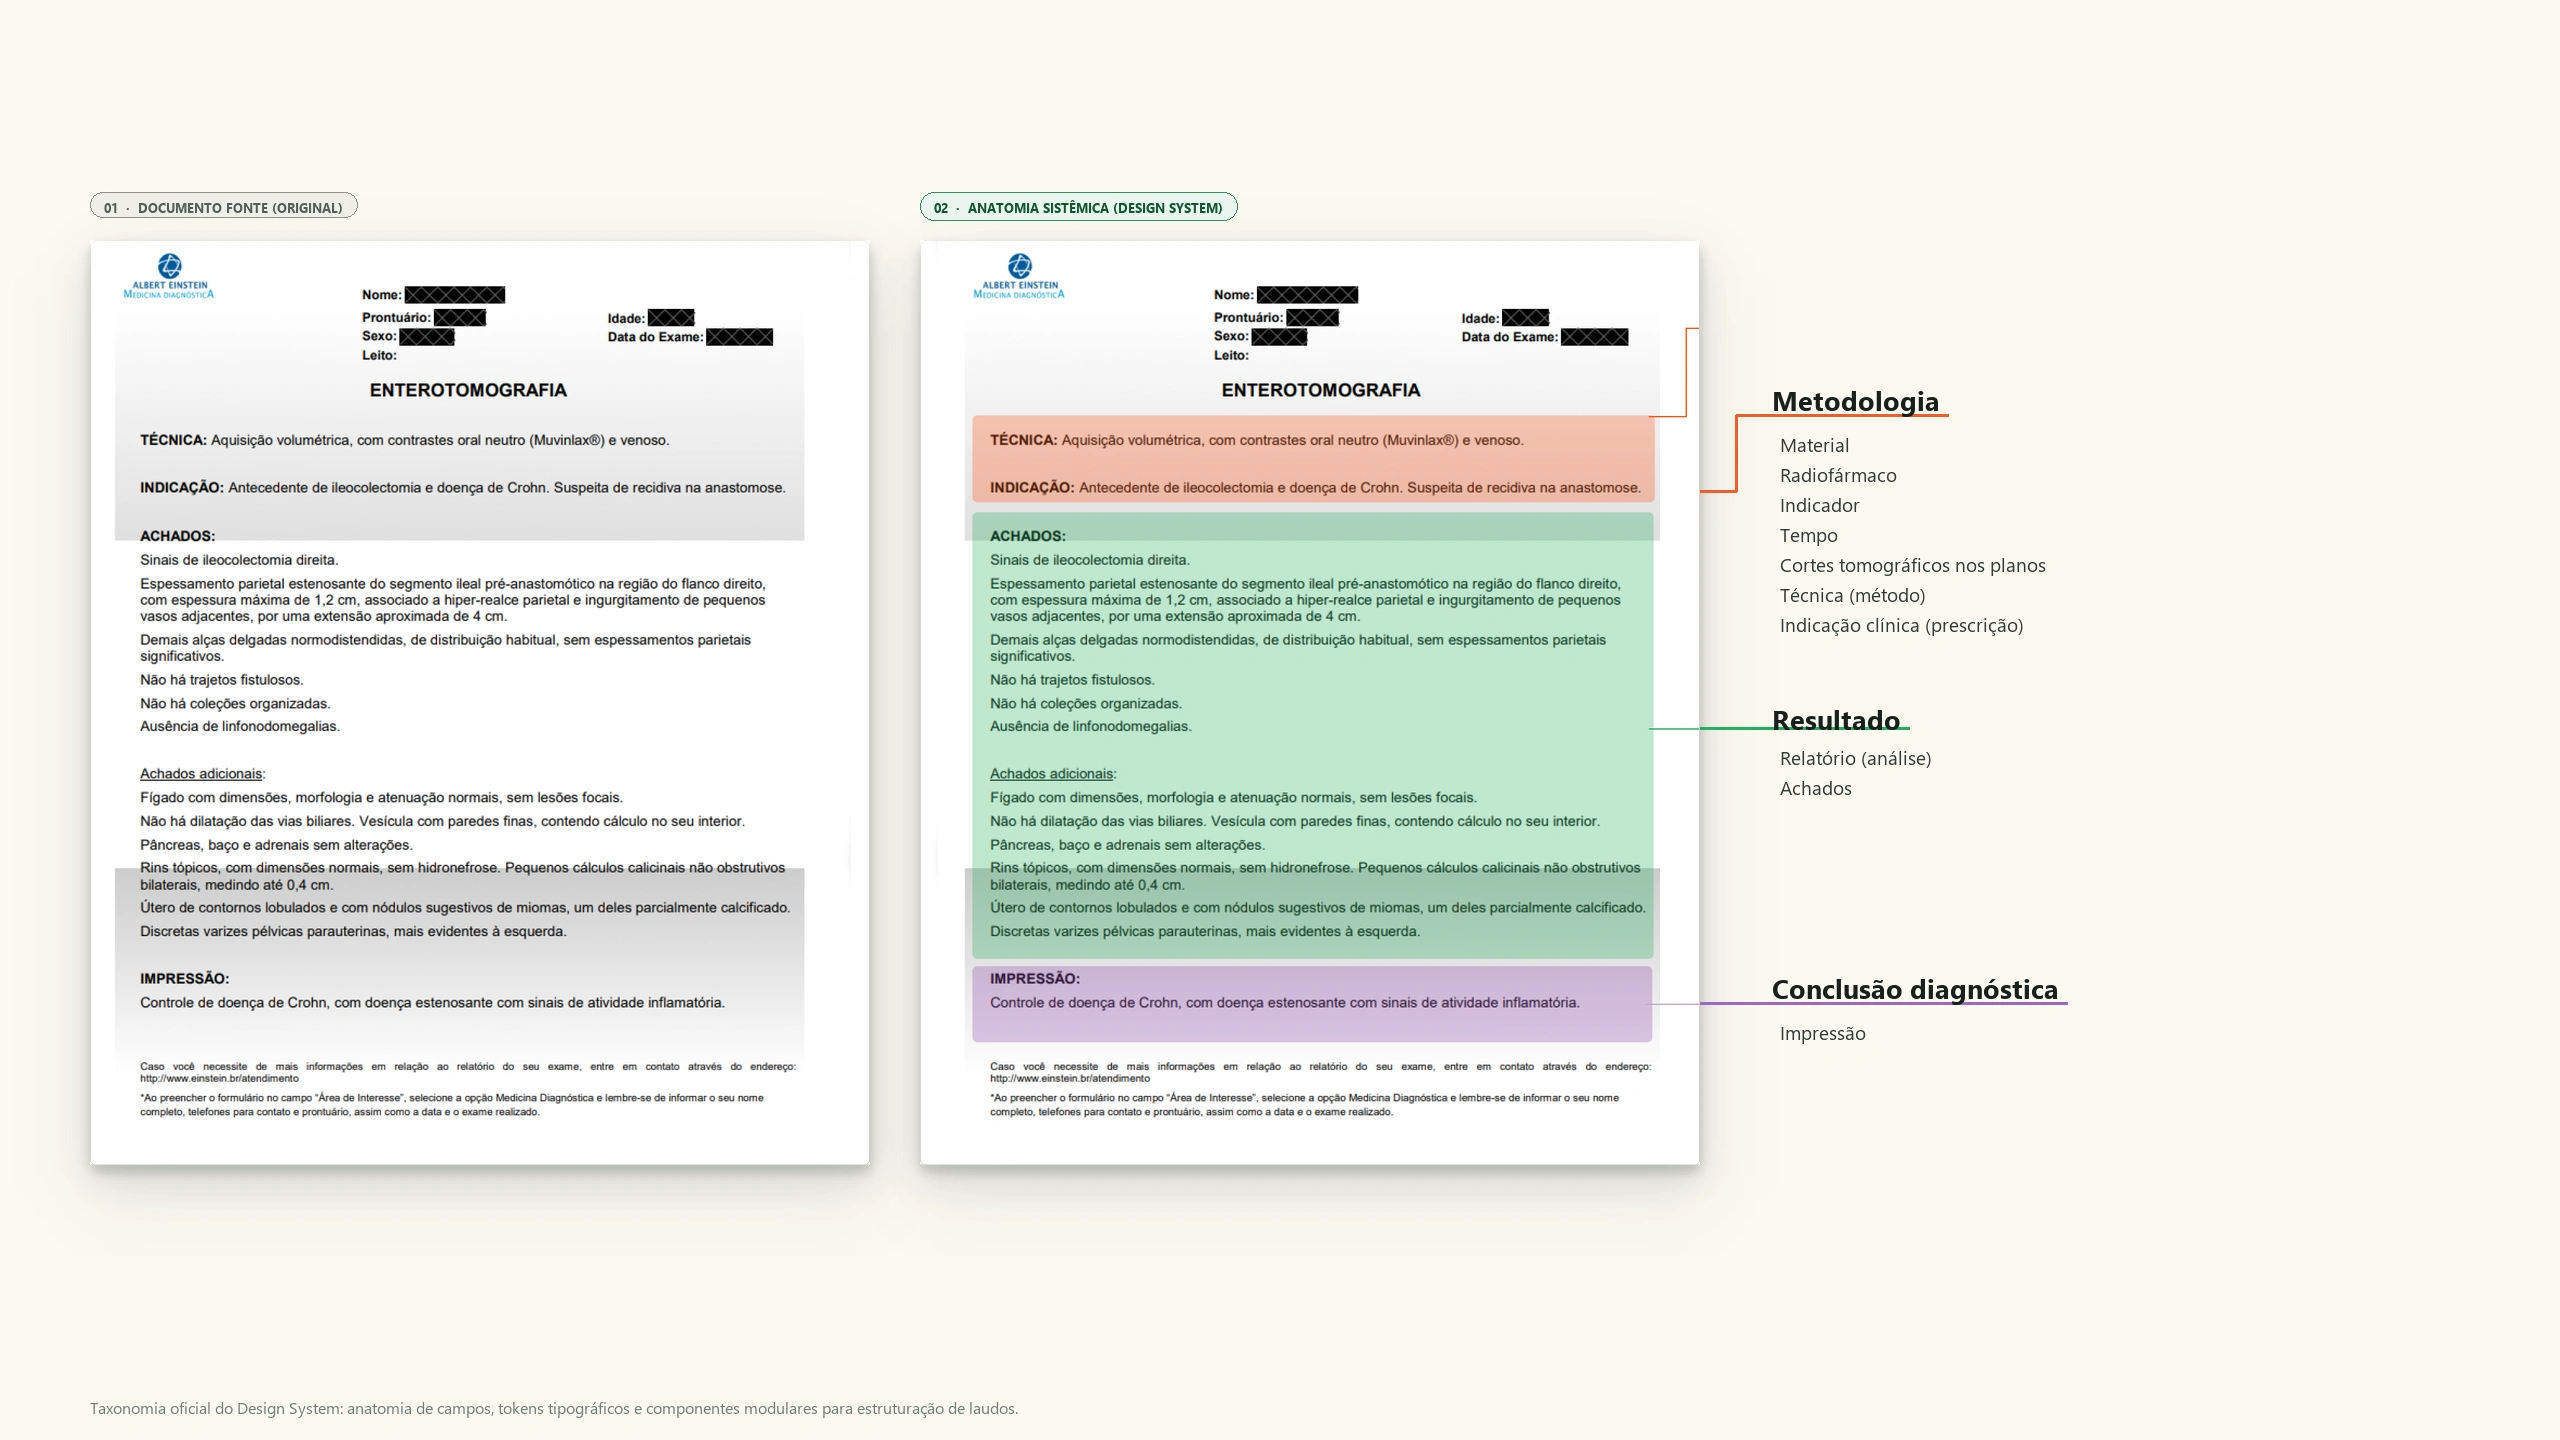
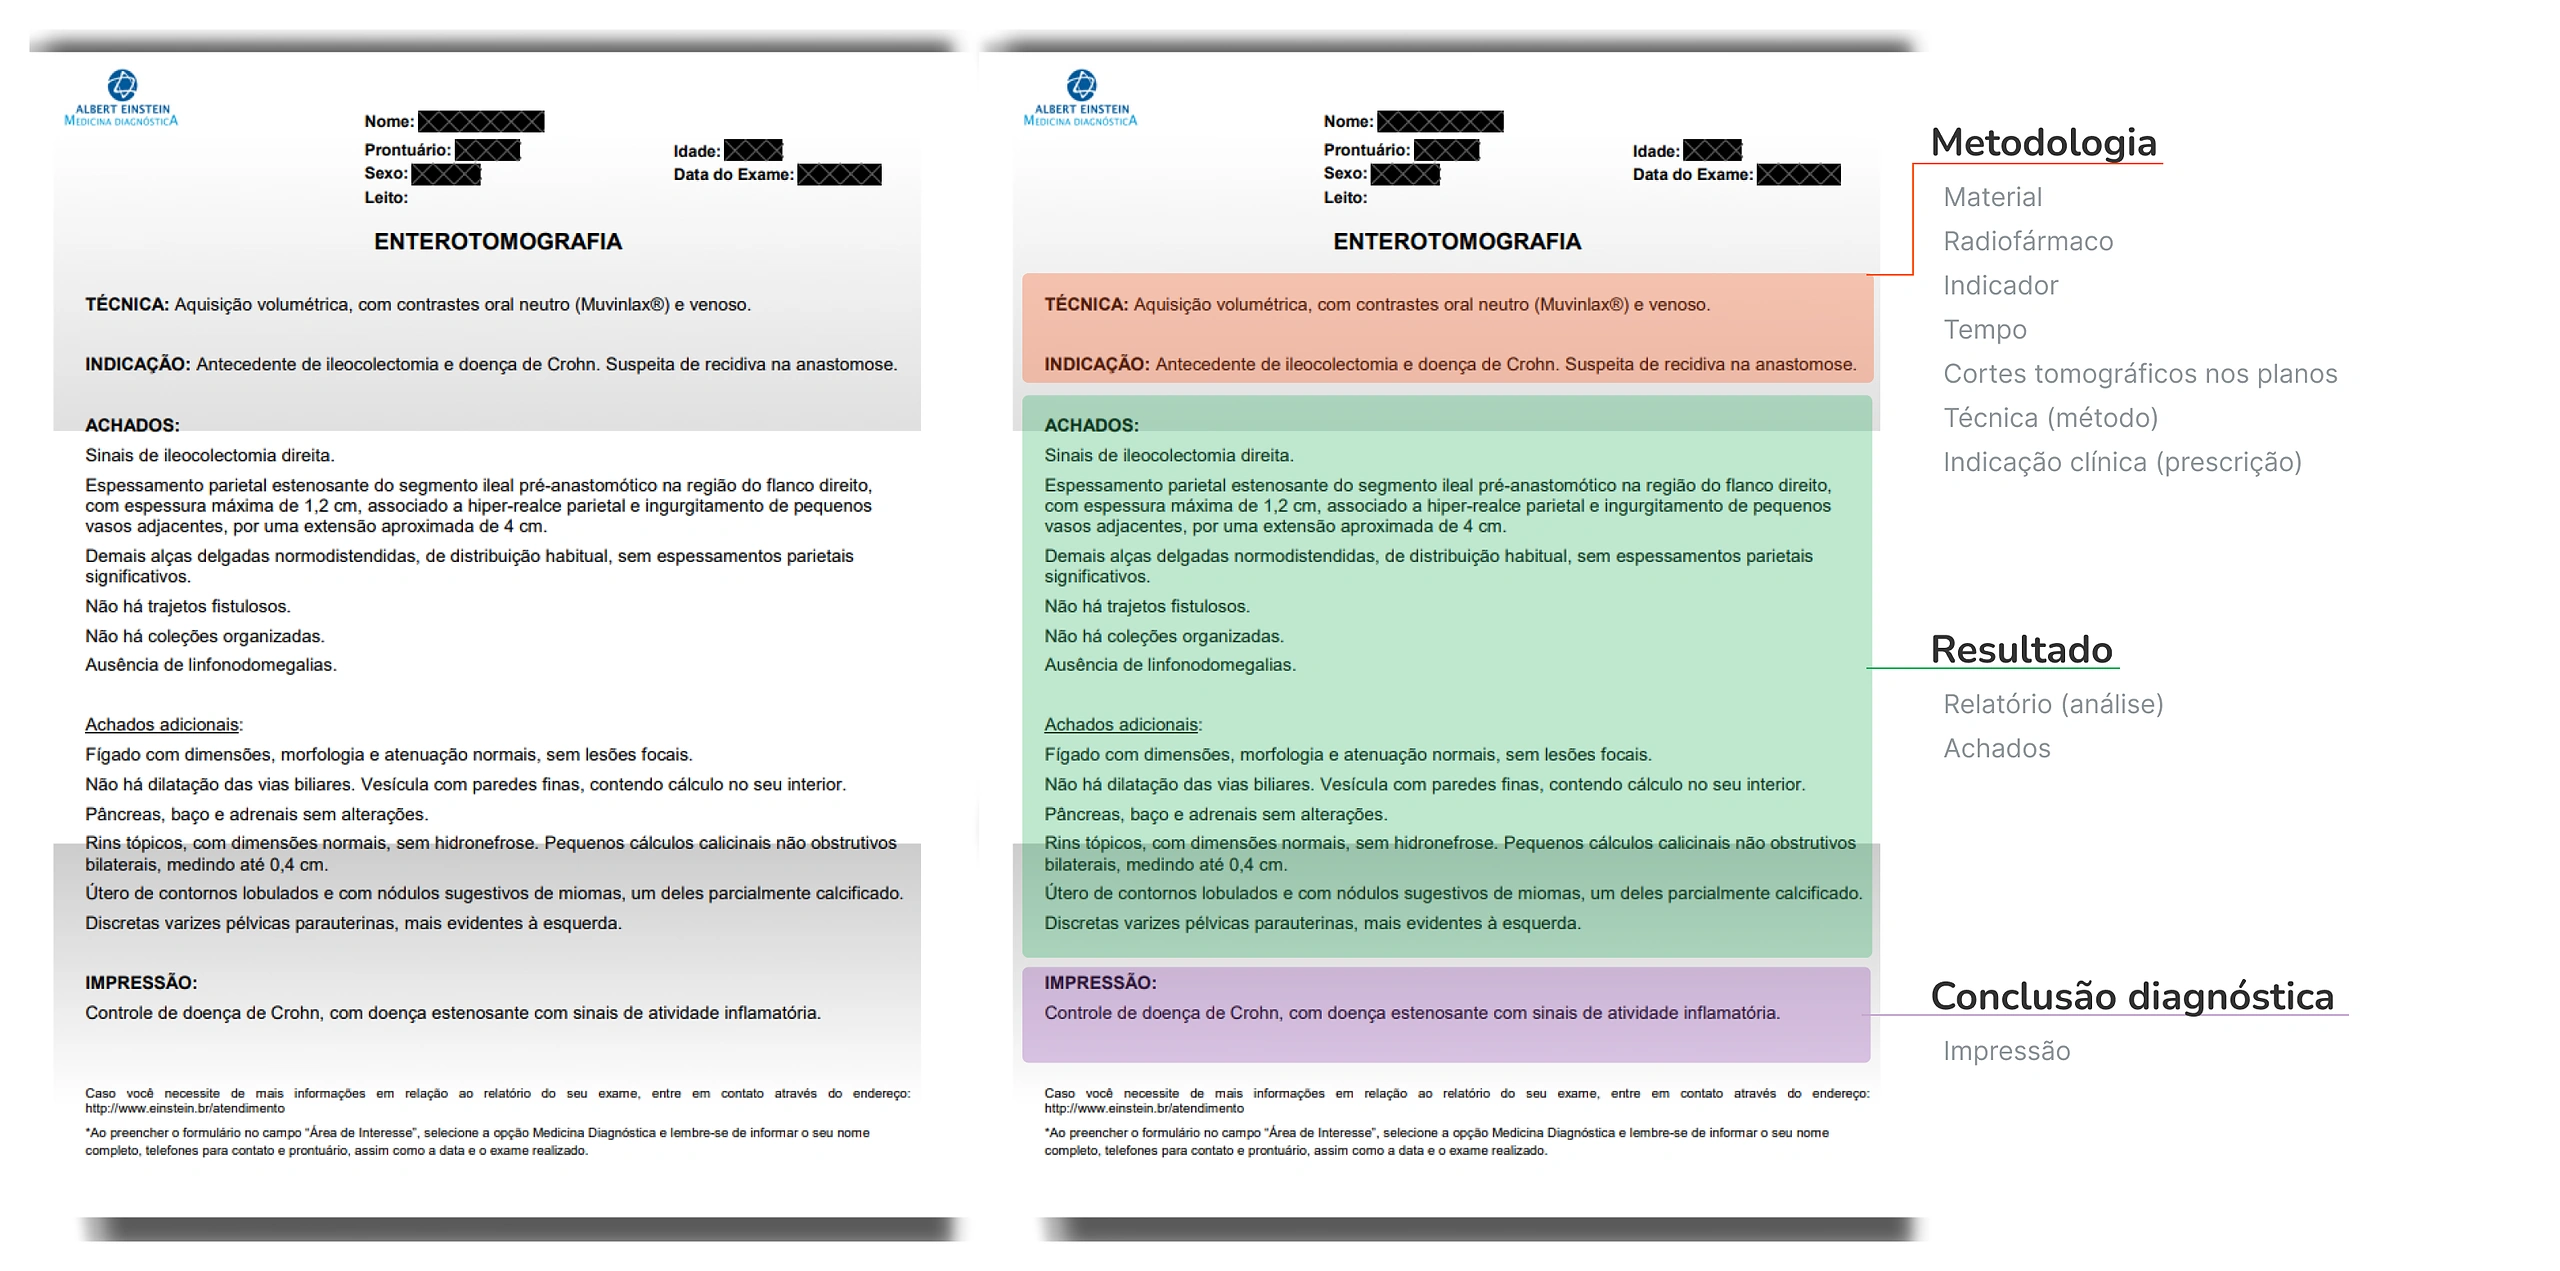
fix(hero): tighten full-bleed Einstein Hero framing from 3K RGBA master and expand hero max-height to eliminate side pillars

diff --git a/site/src/components/case-presentation.css b/site/src/components/case-presentation.css
@@ -209,7 +209,7 @@
   overflow: hidden;
   border: 1px solid rgba(23, 32, 25, 0.09);
   background: var(--cp-surface);
-  max-height: clamp(280px, 36vh, 380px);
+  max-height: clamp(340px, 58vh, 640px);
   display: flex;
   align-items: center;
   justify-content: center;
@@ -218,7 +218,7 @@
 .cp-hero-visual .cp-figure :is(img, .cp-figure-crop) {
   width: 100%;
   max-width: 100%;
-  max-height: clamp(280px, 36vh, 380px);
+  max-height: clamp(340px, 58vh, 640px);
   height: 100%;
   object-fit: contain;
   object-position: center;

diff --git a/site/src/pages/CasePages.tsx b/site/src/pages/CasePages.tsx
@@ -128,7 +128,7 @@ function Sources({ project }: { project: string }) {
 const einsteinHero: CaseImage = {
   src: "/images/hiae-capa-editorial-1600.webp",
   width: 2560,
-  height: 1440,
+  height: 1271,
   alt: "Taxonomia do Design System e modelagem visual modular dos laudos do Hospital Israelita Albert Einstein",
   caption:
     "Taxonomia oficial do Design System: anatomia de campos, tokens tipográficos e componentes modulares para estruturação de laudos laboratoriais.",

diff --git a/docs/v3_6_novembro_25_craft/CHANGELOG_V3_6_CRAFT_EDITION.md b/docs/v3_6_novembro_25_craft/CHANGELOG_V3_6_CRAFT_EDITION.md
@@ -49,3 +49,6 @@ Implementados os 4 refinamentos funcionais de alto impacto (evitando intencional
   * `hiae-componente-protrombina-crop.webp`: re-renderizada em **2400×880 px** (2× Retina) com marcadores vetoriais anti-aliased (`1, 2, 3, 4` em Plus Jakarta Sans 700, zero serrilhado, zero sobreposição) sobre o recorte real v3 do Figma.
   * `hiae-taxonomia-laudo-2000.webp`: re-exportada diretamente do master PNG 3K (`3098×1576`) para **2560×1302 px** (`WebP q=95`).
   * Elevadas para **1440px–2000px** (Lanczos + micro-nitidez `UnsharpMask` + `WebP q=95`) todas as imagens abaixo de 1600px de Claro e Einstein (`claro-workshop`, `claro-jornadas`, `claro-detalhe-linha`, `claro-busca-cliente`, `hiae-ds-tokens-clean-1280`, `hiae-triangulacao-pesquisa-1200`, `hiae-visao-futura-mamografia`, `hiae-visao-futura-ressonancia`), com `width`/`height` sincronizados 1:1 em `CasePages.tsx`.
+* **Enquadramento Full-Bleed do Hero (`case-presentation.css`, `hiae-capa-editorial-1600.webp`, `hiae-taxonomia-laudo-2000.webp`):**
+  * Expandida a altura máxima do Master Hero de `clamp(280px, 36vh, 380px)` para **`clamp(340px, 58vh, 640px)`**, eliminando as faixas laterais vazias em todos os cases.
+  * Recorte editorial fechado da capa Einstein (`2560×1271 px`) diretamente do master 3K com composição alfa em fundo branco puro (`#FFFFFF`), preenchendo ~95% da área útil com nitidez imediata na página.
